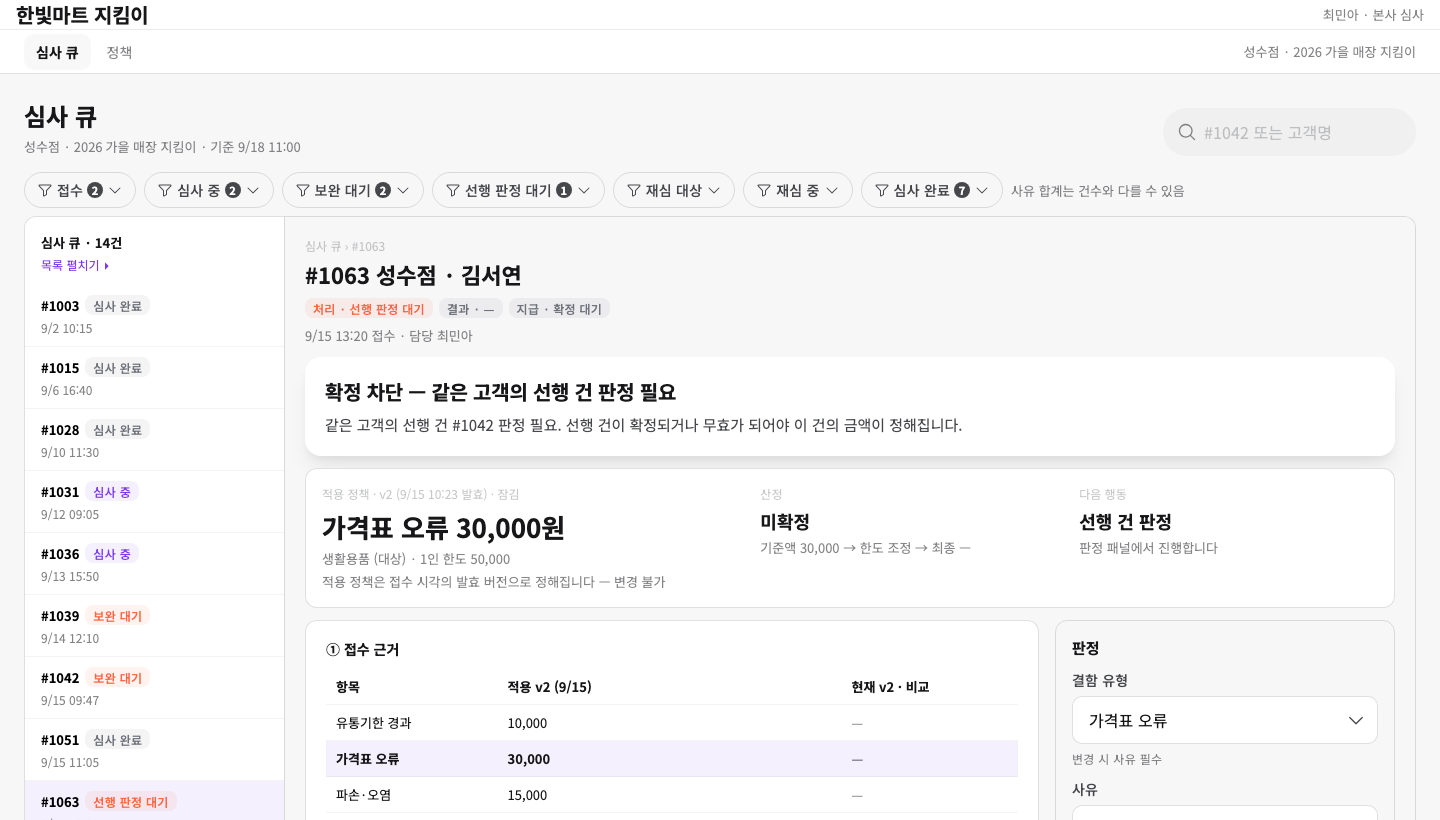
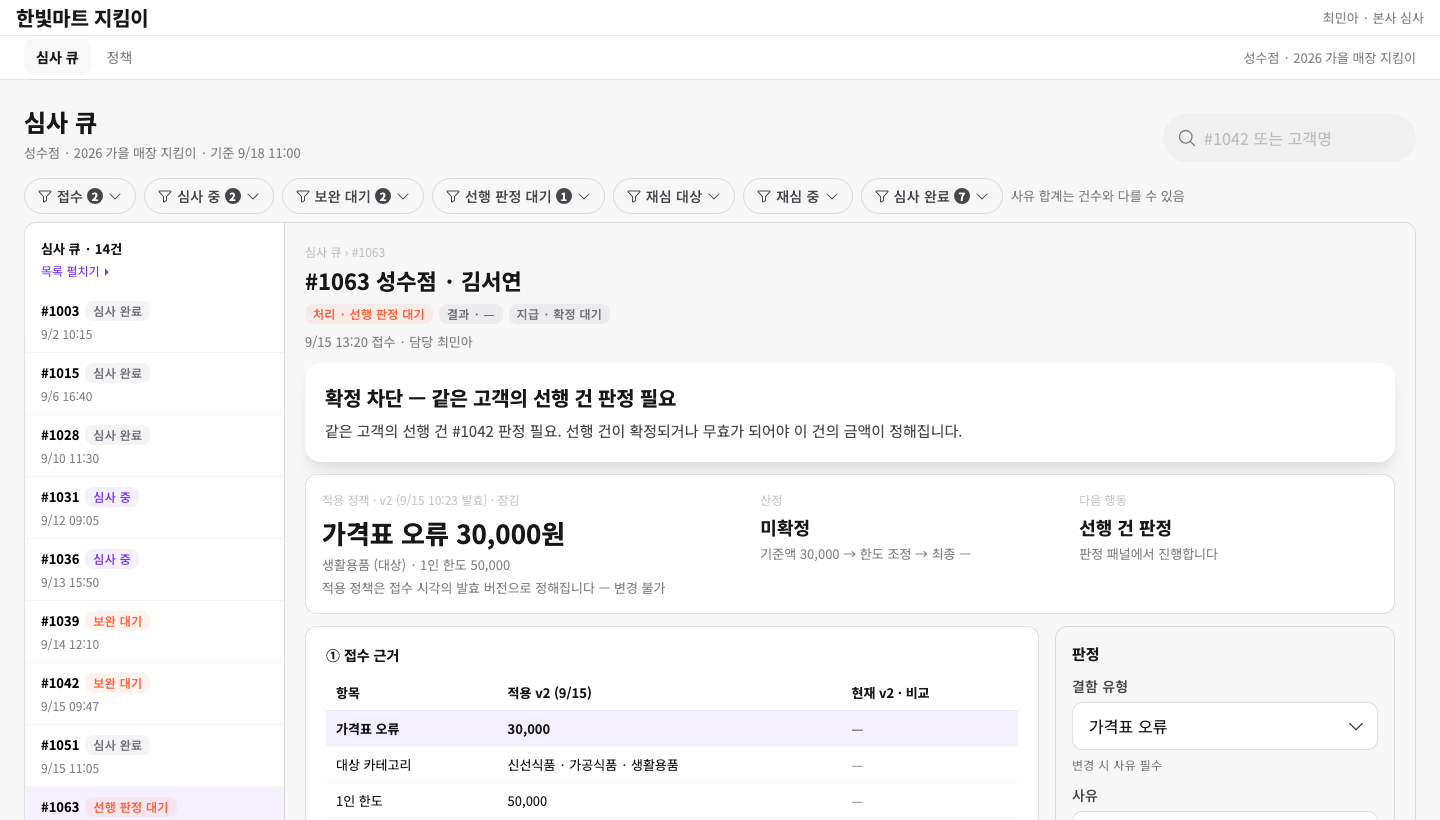
fix(app): 상세의 정보량을 줄여 읽히게
밀도 기준으로 재보니 미리보기 한 화면에 텍스트 조각 73개였다. 접수
근거 표 21칸 중 판정에 쓰이는 건 3칸이었고, 절 여섯이 모두 펼쳐져
있었다.

- 접수 근거: 본건 행 + 대상 카테고리 + 1인 한도만 기본 노출, 다른
  결함 유형 4항목은 펼치기로
- 산정 과정·고객 안내 근거·활동 이력은 기본 접기. 제목 옆 한 줄
  요약을 두고, 확정 후에는 산정과 안내가 펼쳐진 상태로 시작
- 요약 카드의 규칙 문장 두 줄을 한 줄로
- 판정에 쓰는 절과 확인용 절의 제목 무게를 나눔

텍스트 조각 73 → 57, 글자 875 → 607, 표 8행 → 4행.

diff --git a/app/src/ui/Detail.tsx b/app/src/ui/Detail.tsx
@@ -13,6 +13,7 @@ export function Detail({ r, onConfirm, onSupplement }: {
 }) {
   const { s, d } = useStore();
   const [reason, setReason] = useState('');
+  const [showAll, setShowAll] = useState(false);
   const applied = appliedPolicy(s.policies, r.submittedAt);
   const current = currentPolicy(s.policies, s.now);
   const j = judge(r, s.reports, s.policies);
@@ -46,12 +47,11 @@ export function Detail({ r, onConfirm, onSupplement }: {
           <div className="overline">적용 정책 · {applied.version} ({fmt(applied.effectiveFrom)} 발효) · 잠김</div>
           <div className="amount">{r.defectType} {won(basis)}원</div>
           <div className="sub">{r.category} (대상) · 1인 한도 {won(applied.perPersonCap)}</div>
-          {applied.version !== current.version && (
-            <div className="sub muted">
-              현재 {current.version}는 {won(current.amounts[r.defectType])} — 비교용이며 이 건에 적용되지 않습니다
-            </div>
-          )}
-          <div className="sub muted">적용 정책은 접수 시각의 발효 버전으로 정해집니다 — 변경 불가</div>
+          <div className="sub muted">
+            {applied.version !== current.version
+              ? `현재 ${current.version}는 ${won(current.amounts[r.defectType])}이지만 이 건은 접수 시각 기준 ${applied.version}로 잠겨 있습니다`
+              : '적용 정책은 접수 시각의 발효 버전으로 정해집니다 — 변경 불가'}
+          </div>
         </div>
         <div>
           <div className="overline">산정</div>
@@ -73,17 +73,23 @@ export function Detail({ r, onConfirm, onSupplement }: {
             <tr><th>항목</th><th>적용 {applied.version} ({day(applied.effectiveFrom)})</th><th>현재 {current.version} · 비교</th></tr>
           </thead>
           <tbody>
-            {DEFECTS.map((k) => (
-              <tr key={k} className={k === r.defectType ? 'emph' : undefined}>
-                <td>{k}</td>
-                <td>{won(applied.amounts[k])}</td>
+            <tr className="emph">
+              <td>{r.defectType}</td><td>{won(basis)}</td>
+              <td className="muted">{basis === current.amounts[r.defectType] ? '—' : won(current.amounts[r.defectType])}</td>
+            </tr>
+            <tr><td>대상 카테고리</td><td>{applied.categories.join(' · ')}</td><td className="muted">—</td></tr>
+            <tr><td>1인 한도</td><td>{won(applied.perPersonCap)}</td><td className="muted">—</td></tr>
+            {showAll && DEFECTS.filter((k) => k !== r.defectType).map((k) => (
+              <tr key={k}>
+                <td>{k}</td><td>{won(applied.amounts[k])}</td>
                 <td className="muted">{applied.amounts[k] === current.amounts[k] ? '—' : won(current.amounts[k])}</td>
               </tr>
             ))}
-            <tr><td>대상 카테고리</td><td>{applied.categories.join(' · ')}</td><td className="muted">—</td></tr>
-            <tr><td>1인 한도</td><td>{won(applied.perPersonCap)}</td><td className="muted">—</td></tr>
           </tbody>
         </table>
+        <button className="more" onClick={() => setShowAll(!showAll)}>
+          {showAll ? '다른 결함 유형 접기' : `다른 결함 유형 ${DEFECTS.length - 1}항목 펼치기`}
+        </button>
       </Rail>
 
       <Rail label="② 증빙 · 유효성 평가">
@@ -116,11 +122,13 @@ export function Detail({ r, onConfirm, onSupplement }: {
           )}
       </Rail>
 
-      <Rail label="④ 산정 과정">
+      <Rail label="④ 산정 과정" tone="secondary" defaultOpen={done}
+        summary={`판정 순서 ${j.step}단계까지 진행`}>
         <ol className="trace">{j.trace.map((t, i) => <li key={i}>{t}</li>)}</ol>
       </Rail>
 
-      <Rail label="⑤ 고객 안내 근거">
+      <Rail label="⑤ 고객 안내 근거" tone="secondary" defaultOpen={done}
+        summary={done ? '확정본' : '확정 후 이 내용으로 발송'}>
         <pre className="notice">
 {`${fmt(r.submittedAt)} 접수 · 접수 당시 조건 ${r.defectType} ${won(basis)}원 (1인 한도 ${won(applied.perPersonCap)})
 ${noticeOutcome(r, j.outcome)}
@@ -129,7 +137,8 @@ ${noticePayout(r, done)}
         </pre>
       </Rail>
 
-      <Rail label="⑥ 활동 이력">
+      <Rail label="⑥ 활동 이력" tone="secondary"
+        summary={`${r.history.length}건`}>
         <ul className="history">
           {r.history.map((h, i) => (
             <li key={i}><b>{fmt(h.at)}</b> {h.action}{h.after ? ` · ${h.after}` : ''}{h.actor ? ` · ${h.actor}` : ''}</li>

diff --git a/app/src/ui/bits.tsx b/app/src/ui/bits.tsx
@@ -1,3 +1,4 @@
+import { useState } from 'react';
 import { ContentBadge } from '@hs2190.an/iris-react';
 import type { Outcome, PayoutState, Process, Report } from '../domain/types';
 
@@ -42,11 +43,32 @@ export function PayoutBadge({ r, prefix }: { r: Report; prefix?: boolean }) {
   return <ContentBadge tone={tone[state]} variant="subtle">{prefix ? `지급 · ${label}` : label}</ContentBadge>;
 }
 
-export function Rail({ label, children }: { label: string; children: React.ReactNode }) {
+/**
+ * 판정에 쓰는 절은 펼친 채로, 확인용 절은 접은 채로 둔다.
+ * 접힌 절은 제목 옆 한 줄 요약으로 무엇이 들었는지 알린다.
+ */
+export function Rail({ label, children, summary, tone = 'primary', defaultOpen }: {
+  label: string; children: React.ReactNode;
+  summary?: React.ReactNode; tone?: 'primary' | 'secondary'; defaultOpen?: boolean;
+}) {
+  const collapsible = tone === 'secondary';
+  const [open, setOpen] = useState(defaultOpen ?? !collapsible);
+  if (!collapsible) {
+    return (
+      <section className="rail">
+        <h3 className="rail-label">{label}</h3>
+        <div className="rail-body">{children}</div>
+      </section>
+    );
+  }
   return (
-    <section className="rail">
-      <h3 className="rail-label">{label}</h3>
-      <div className="rail-body">{children}</div>
+    <section className={`rail secondary${open ? ' open' : ''}`}>
+      <button className="rail-toggle" aria-expanded={open} onClick={() => setOpen(!open)}>
+        <h3 className="rail-label">{label}</h3>
+        {!open && summary && <span className="rail-summary">{summary}</span>}
+        <span className="rail-chev">{open ? '접기' : '펼치기'}</span>
+      </button>
+      {open && <div className="rail-body">{children}</div>}
     </section>
   );
 }

diff --git a/app/src/app.css b/app/src/app.css
@@ -164,3 +164,21 @@ table.basis tr.emph td { background: var(--iris-semantic-background-status-info)
   .detail-body { grid-template-columns: 1fr; }
   .workspace { grid-template-columns: 1fr; }
 }
+
+/* 확인용 절은 접어 둔다 — 제목 옆 한 줄 요약으로 무엇이 들었는지 알린다 */
+.rail.secondary { padding: 0; }
+.rail-toggle { display: flex; align-items: baseline; gap: 10px; width: 100%; text-align: left;
+  background: none; border: 0; cursor: pointer; padding: 14px 20px; }
+.rail.secondary.open .rail-toggle { padding-bottom: 6px; }
+.rail-toggle .rail-label { margin: 0; color: var(--iris-semantic-label-alternative); font-size: 13.5px; }
+.rail.secondary.open .rail-toggle .rail-label { color: var(--iris-semantic-label-normal); }
+.rail-summary { font-size: 12.5px; color: var(--iris-semantic-label-assistive); }
+.rail-chev { margin-left: auto; font-size: 12px; color: var(--iris-semantic-primary-normal); }
+.rail.secondary .rail-body { padding: 0 20px 18px; }
+
+/* 표 안에서 더 보기 */
+.more { margin-top: 10px; border: 0; background: none; padding: 0; cursor: pointer;
+  font-size: 12.5px; color: var(--iris-semantic-primary-normal); }
+
+/* 큐 정책 열 한 줄로 */
+.pol { display: inline-flex; flex-direction: row; align-items: center; gap: 6px; }
